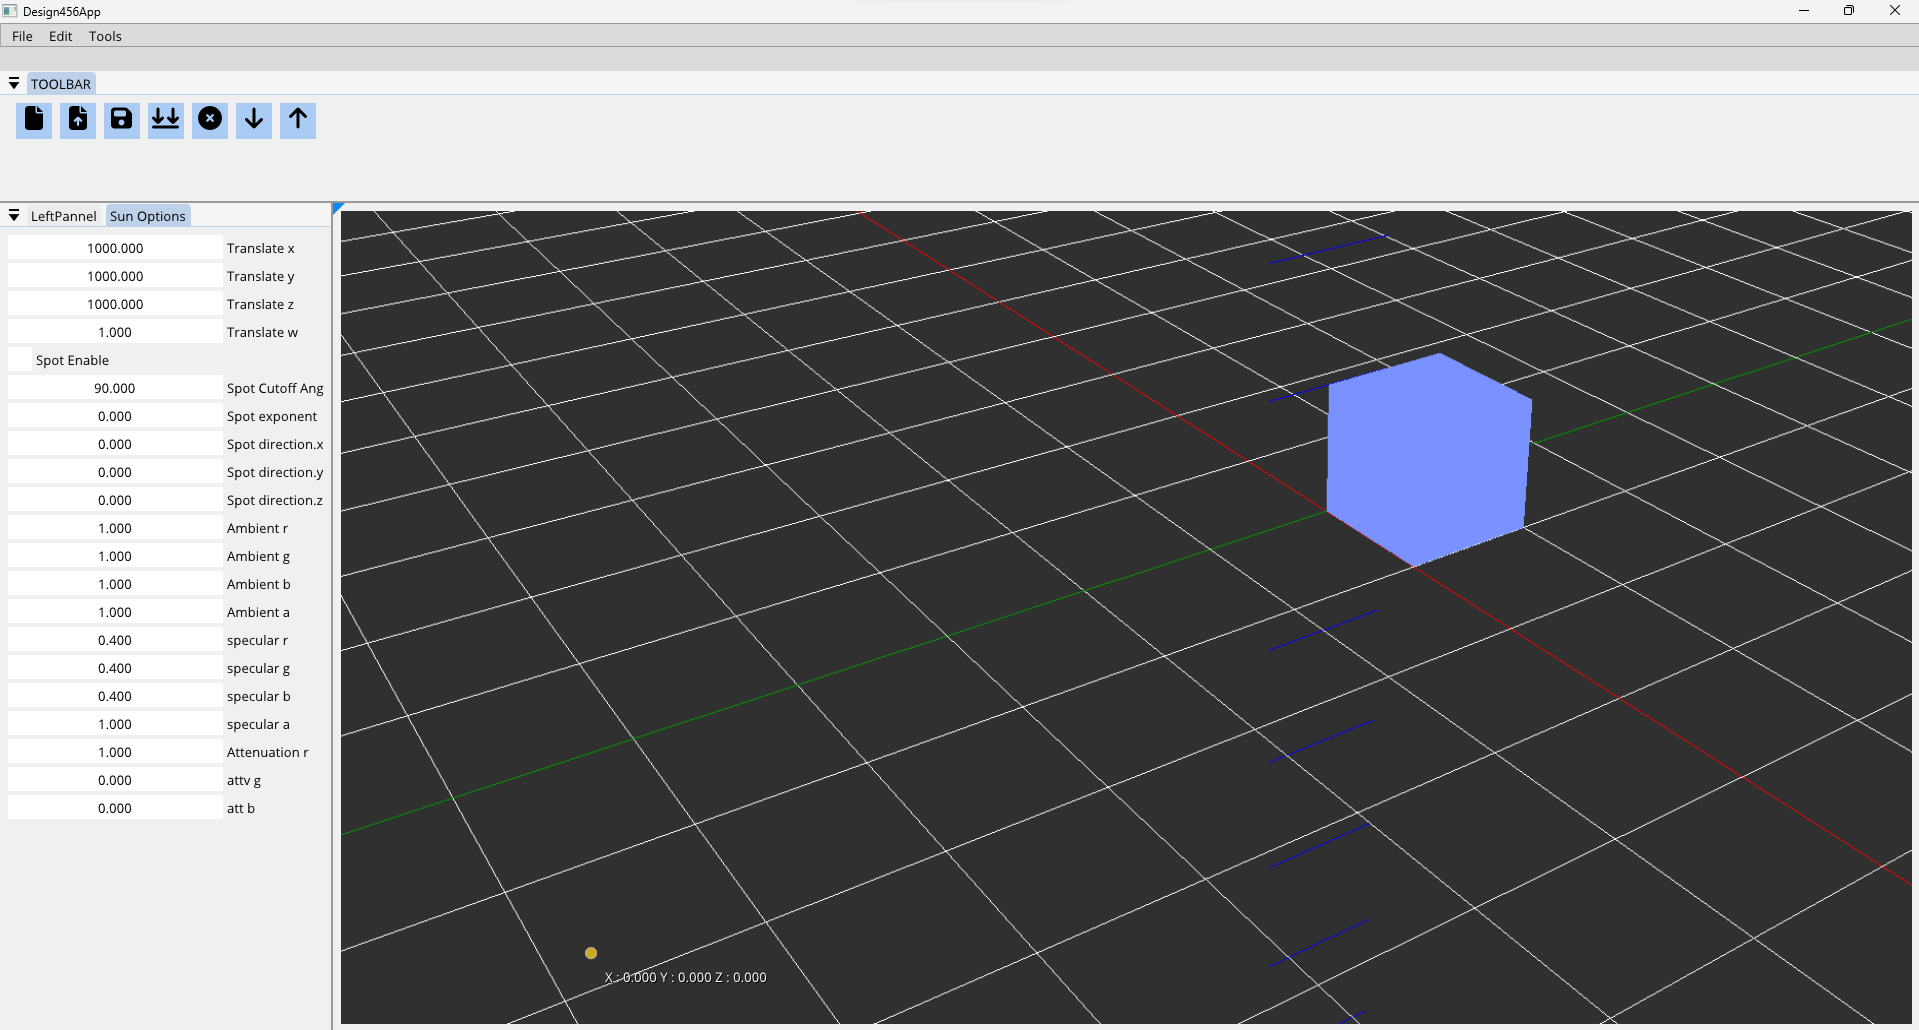
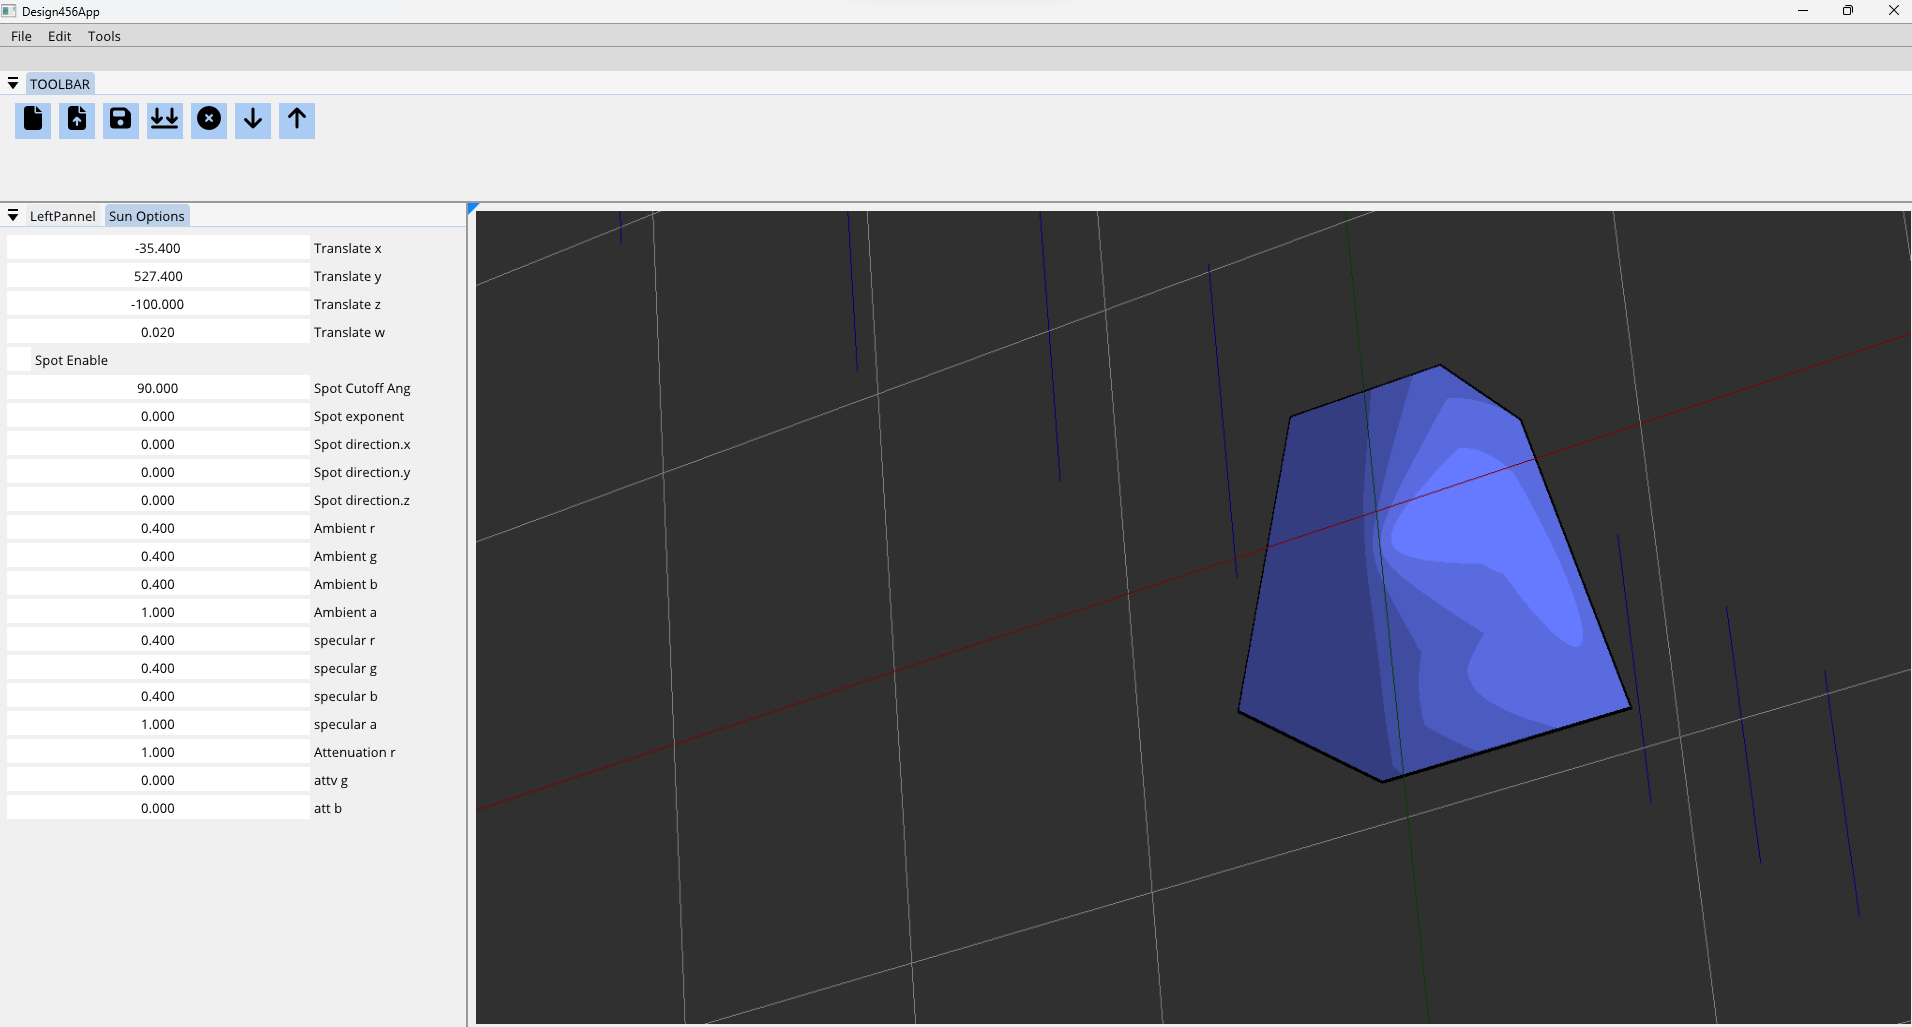
some more debgging - still not totally ok

diff --git a/frtk/src/fr_imgui.cpp b/frtk/src/fr_imgui.cpp
@@ -376,7 +376,7 @@ void Fr_GL3Window::SunOptions() {
     pos[2] = f;
     
     f = pos[3];
-    ImGui::DragFloat("Translate w", &f, 0.2, -1000.f, 1000.f);
+    ImGui::DragFloat("Translate w", &f, 0.02, -1.f, 1.f);
     pos[3] = f;
     sun->SetPosition(pos);
 
@@ -393,11 +393,11 @@ void Fr_GL3Window::SunOptions() {
     ImGui::DragFloat("Spot Cutoff Ang", &f, 0.2, -360.f, 360.f);
     old.spot_cutoff_Ang = cos(glm::radians(f));
     f = old.spot_exponent_;
-    ImGui::DragFloat("Spot exponent", &f, 0.2, -50.f, 50.f);
+    ImGui::DragFloat("Spot exponent", &f, 0.02, -1.f, 1.f);
     old.spot_exponent_=f ;
 
     f = old.spot_direction_.x;
-    ImGui::DragFloat("Spot direction.x", &f, 0.2, -100.0f, 1000.0f);
+    ImGui::DragFloat("Spot direction.x", &f, 0.2, -1000.0f, 1000.0f);
     old.spot_direction_.x = f;
 
     f = old.spot_direction_.y;
@@ -410,45 +410,45 @@ void Fr_GL3Window::SunOptions() {
     sun->SetupSpot(old);
     auto amb= sun->gtAmbient();
     f = amb.r;
-    ImGui::DragFloat("Ambient r", &f, 0.02, -100.0f, 100.0f);
+    ImGui::DragFloat("Ambient r", &f, 0.002, 0.0f, 1.0f);
     amb.r = f;
     f = amb.g;
-    ImGui::DragFloat("Ambient g", &f, 0.02, -100.0f, 100.0f);
+    ImGui::DragFloat("Ambient g", &f, 0.002, 0.0f, 1.0f);
     amb.g=f;
     f = amb.b;
-    ImGui::DragFloat("Ambient b", &f, 0.02, -100.f, 100.f);
+    ImGui::DragFloat("Ambient b", &f, 0.002, 0.f, 1.f);
     amb.b = f;
     f = amb.a;
-    ImGui::DragFloat("Ambient a", &f, 0.020, -100.f, 100.f);
+    ImGui::DragFloat("Ambient a", &f, 0.020, 0.f, 1.f);
     amb.a = f;
     sun->SetAmbient(amb.r, amb.g, amb.b, amb.a);
 
 
     auto spec = sun->getSpecular();
     f = spec.r;
-    ImGui::DragFloat("specular r", &f, 0.02, -100.f, 100.f);
+    ImGui::DragFloat("specular r", &f, 0.002, 0.f, 1.f);
     spec.r = f;
     f = spec.g;
-    ImGui::DragFloat("specular g", &f, 0.02, -100.f, 100.f);
+    ImGui::DragFloat("specular g", &f, 0.002, 0.f, 1.f);
     spec.g = f;
     f = spec.b;
-    ImGui::DragFloat("specular b", &f, 0.02, -100.f, 100.f);
+    ImGui::DragFloat("specular b", &f, 0.002, 0.f, 1.f);
     spec.b = f;
     f = spec.a;
-    ImGui::DragFloat("specular a", &f, 0.02, -100.f, 100.f);
+    ImGui::DragFloat("specular a", &f, 0.002, 0.f, 1.f);
     spec.a = f;
     sun->SetSpecular(spec.r, spec.g, spec.b, spec.a);
 
 
     auto att = sun->getAttenuation();
     f = att.r;
-    ImGui::DragFloat("Attenuation r", &f, 0.01,-1.f, 1.f);
+    ImGui::DragFloat("Attenuation r", &f, 0.001,0.f, 1.f);
     att.r = f;
     f = att.g;
-    ImGui::DragFloat("attv g", &f, 0.01, -1.f, 1.f);
+    ImGui::DragFloat("attv g", &f, 0.001, 0.f, 1.f);
     att.g = f;
     f = att.b;
-    ImGui::DragFloat("att b", &f, 0.01, -1.f, 1.0f);
+    ImGui::DragFloat("att b", &f, 0.001, 0.f, 1.0f);
     att.b = f;
     sun->SetAttenuation(att.r, att.g, att.b);
     ImGui::End();

diff --git a/frtk/src/halfEdge/fr_new_mesh.cpp b/frtk/src/halfEdge/fr_new_mesh.cpp
@@ -347,9 +347,17 @@ void Shape::InitializeVBO(const std::vector<float>& vertices,
     glCheckFunc(glBufferData(GL_ARRAY_BUFFER, sizeof(float) * vertices.size(), vertices.data(), GL_STATIC_DRAW));
     glCheckFunc(glEnableVertexAttribArray(0));
     glCheckFunc(glVertexAttribPointer(0, 3, GL_FLOAT, GL_FALSE, 0, NULL));
+    
+    //this is the object shader - look at the shader, it uses uniform. so the binding MUST be uniform
+        //Original code 
+    //glCheckFunc(glBindBuffer(GL_ARRAY_BUFFER, vbo_[1]));          //Using GL_UNIFORM_BUFFER draw the line around the object but now nothing? why?
+    //glCheckFunc(glBufferData(GL_ARRAY_BUFFER, sizeof(float) * normals.size(), normals.data(), GL_STATIC_DRAW));
 
-    glCheckFunc(glBindBuffer(GL_UNIFORM_BUFFER, vbo_[1]));
+    //this is the object shader - look at the shader, it uses uniform. so the binding MUST be uniform
+    glCheckFunc(glBindBuffer(GL_UNIFORM_BUFFER, vbo_[1]));          //Using GL_UNIFORM_BUFFER draw the line around the object but now nothing? why?
     glCheckFunc(glBufferData(GL_UNIFORM_BUFFER, sizeof(float) * normals.size(), normals.data(), GL_STATIC_DRAW));
+
+
     glCheckFunc(glEnableVertexAttribArray(1));
     glCheckFunc(glVertexAttribPointer(1, 3, GL_FLOAT, GL_FALSE, 0, NULL));
 

diff --git a/frtk/src/Fr_GL3Window.cpp b/frtk/src/Fr_GL3Window.cpp
@@ -78,7 +78,7 @@ Fr_GL3Window::Fr_GL3Window(int x = 0, int y = 0, int w = 900, int h = 800, std::
     pitch = 0.0f;  //
     roll = 0.0f;  //Z axis
     gl_version_major = 4;
-    gl_version_minor = 3;
+    gl_version_minor = 5;
     glfwSetErrorCallback(error_callback);
     if (!s_GLFWInitialized)
     {
@@ -483,14 +483,14 @@ int Fr_GL3Window::GLFWrun()
 std::shared_ptr<Transform> Fr_GL3Window::CreateSun() {
     //TODO: FIXME:
     auto sun_ = std::make_shared<Transform>();
-    sun_->Translate(0.0f, 0, 130.0f);
+    sun_->Translate(30.0f, 500.f, 30.0f);
    
 
     sun= std::make_shared<Light>();
     sun->SetPosition(0.0f, 0.0f, 0.0f);
     sun->SetDiffuse(0.5f, 0.5f, 0.5f);
     sun->SetAmbient(0.4f, 0.4f, 0.4f);
-    sun->EnableShadowMap(glm::vec3(0.0f, -1.0f, 0.0f), glm::vec3(1.f, 0.0f, 0.0f), glm::ortho(-50.0f, 50.0f, -50.0f, 50.0f, 400.0f, 600.0f));
+    sun->EnableShadowMap(glm::vec3(0.0f, -1.0f, 0.0f), glm::vec3(1.f, 0.0f, 0.0f), glm::ortho(-50.0f, 50.0f, -50.0f, 50.0f, -600.0f, 600.0f));
     sun_->AddNode(sun);
     sun_->SetActive(true);   //A must to have otherwise everything is black.
     sunT = std::move(sun_);

diff --git a/frtk/src/fr_camera.cpp b/frtk/src/fr_camera.cpp
@@ -123,13 +123,15 @@ bool  Camera::SetupCamera(glm::mat4& projection, glm::mat4& modelview)
         return false;
 
     int vp[4];
-    glGetIntegerv(GL_VIEWPORT, vp);
+   // glGetIntegerv(GL_VIEWPORT, vp);
 
     if (camType_ ==CameraList::ORTHOGRAPHIC) {
         ImVec4 winDim = Fr_GL3Window::getfr_Gl3Window()->getPortViewDimensions();
         float aspect = (float)winDim.z / winDim.w;
 
-       projection = glm::ortho(float(-winDim.z/fovy_), float(winDim.z / fovy_),-winDim.w / fovy_, winDim.w / fovy_, znear_, zfar_);
+        projection = glm::ortho(float(-winDim.z/fovy_), float(winDim.z / fovy_),-winDim.w / fovy_, winDim.w / fovy_, znear_, zfar_);
+
+ 
     }
     else {
         projection = glm::perspective(glm::radians(fovy_), aspectRatio_, znear_, zfar_);

diff --git a/frtk/src/fr_object_shader_node.cpp b/frtk/src/fr_object_shader_node.cpp
@@ -129,7 +129,7 @@ void ObjectShaderNode::RenderShadowMap(ShadowMapInfo& info, const glm::mat4& mod
     program->Enable();
     program->SetAttribLocation("position", 0);      //Position variable has (layout(location =0) inside objectshader_vs.glsl
     program->SetUniformMat4("mvp", mvp);
-    mesh_->Draw();
+    //mesh_->Draw();
     program->Disable();
 }
 
@@ -165,9 +165,7 @@ void ObjectShaderNode::Render(RenderInfo& info, const glm::mat4& modelview) {
     shared_->object_program->SetUniformInteger("sm_texture", 0);
     mesh_->Draw();
     program->Disable();
-
     info.id++;
-
 }
 
 GLuint ObjectShaderNode::getCurrentTexturer(void)

diff --git a/frtk/src/fr_light.cpp b/frtk/src/fr_light.cpp
@@ -72,6 +72,7 @@ void Light::SetAttenuation(float c, float l, float q) {
     attenuation_ = glm::vec3(c, l, q);
 }
 
+//Temporar code - just to fix the issues I  have here. 
 void Light::SetupSpot(_spot &newSpot) {
     spot_.spot_enabled_ = newSpot.spot_enabled_;
     spot_.spot_direction_ = newSpot.spot_direction_;

diff --git a/frtk/src/fr_light.h b/frtk/src/fr_light.h
@@ -117,7 +117,7 @@ public:
 
 private:
     // Constants
-    const int kShadowmapWidth = 1024;//8192;
+    const int kShadowmapWidth = 8192;
     const int kShadowmapHeight = kShadowmapWidth;
 
     // Attributes
